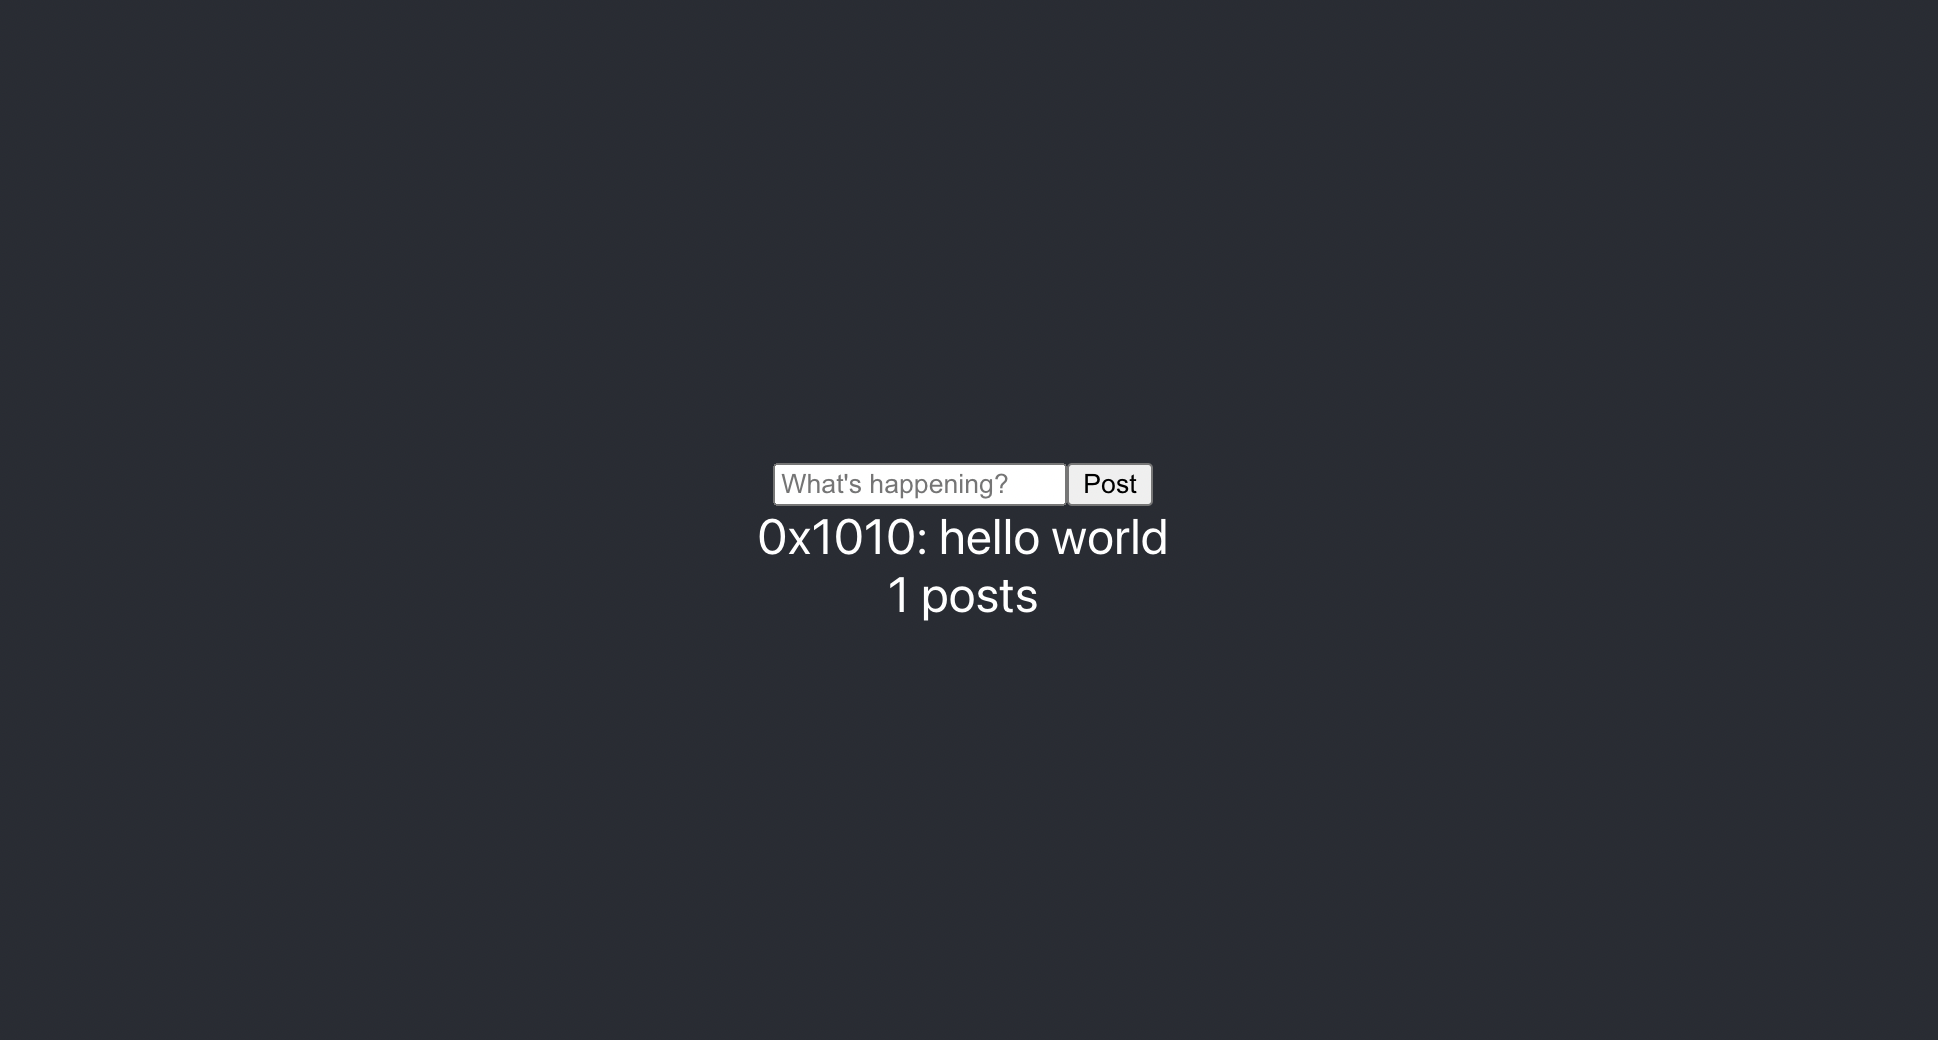
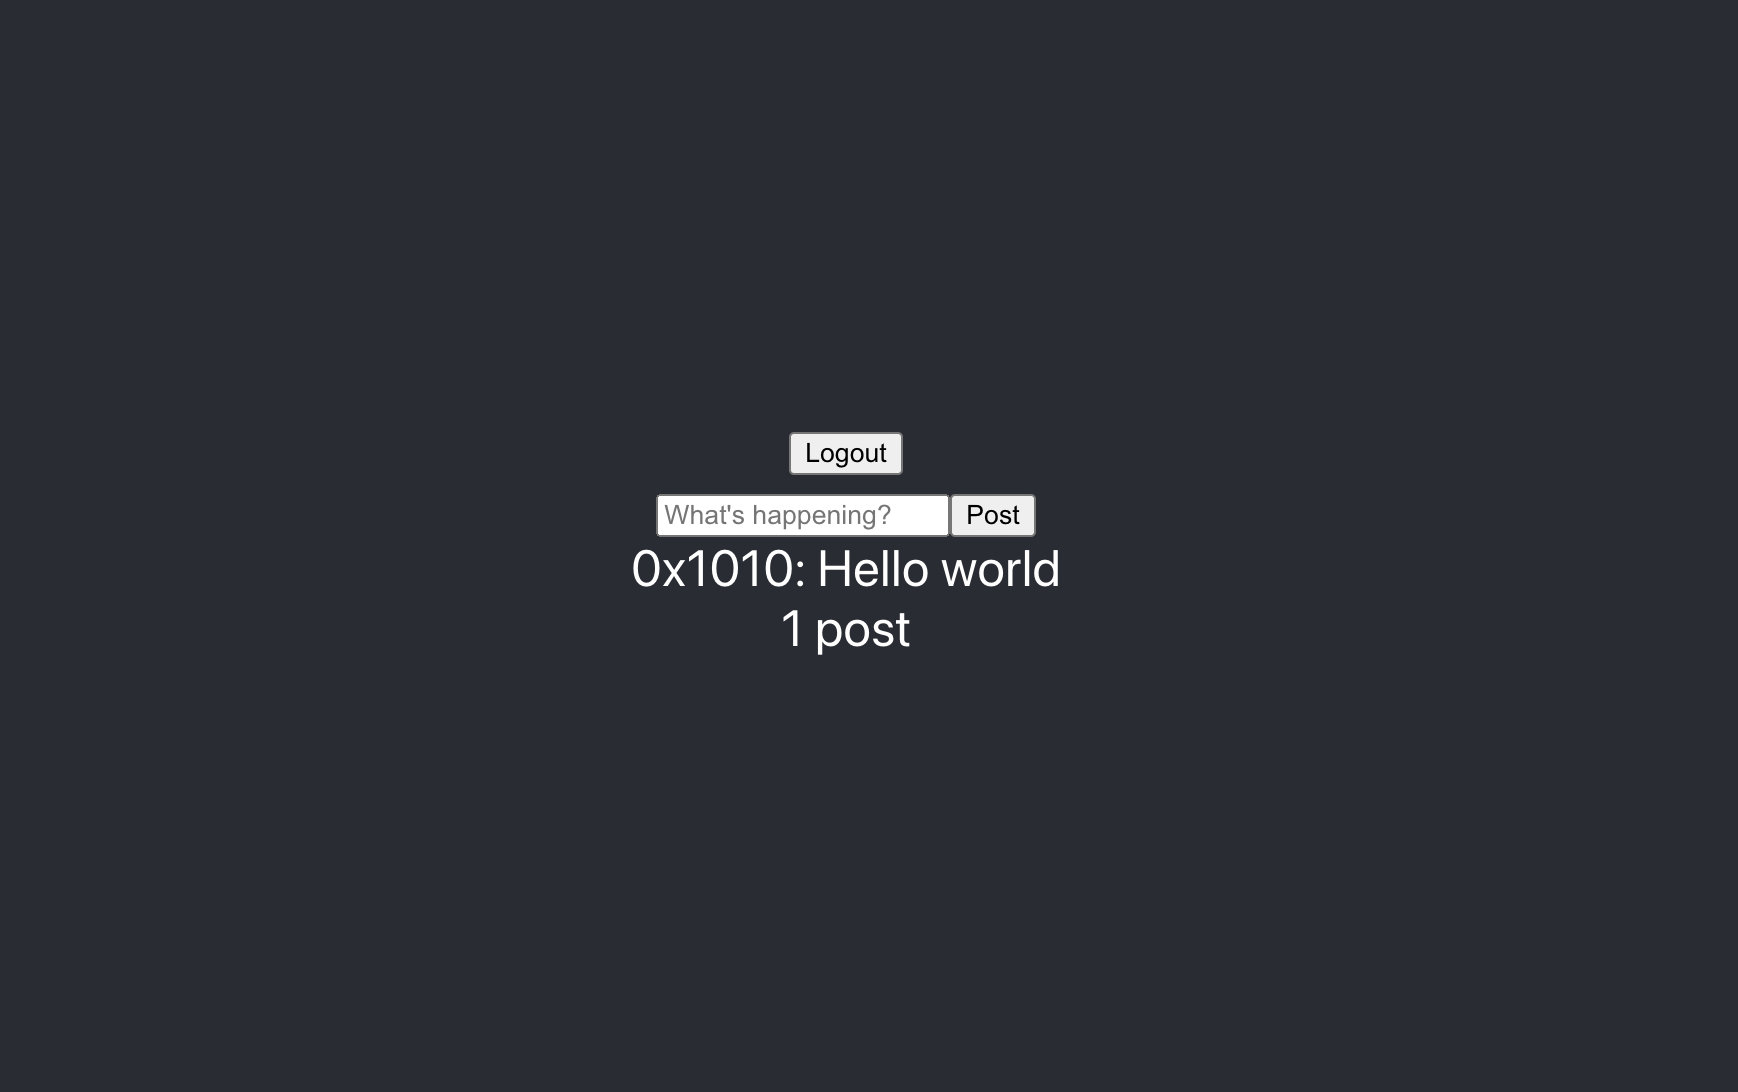
add login to canvas frontend tutorial

Changed region(s): [[0.3728, 0.3692, 0.6214, 0.6154]]

diff --git a/docs/tutorial/writing-a-canvas-frontend.md b/docs/tutorial/writing-a-canvas-frontend.md
@@ -87,19 +87,20 @@ Save and refresh, and you should see some text on the screen:
 
 ![Screenshot of app with text that says "0 posts"](/img/react-starter-1.png)
 
-### Accepting user interactions
+### Connecting a wallet and posting
 
-In Canvas, users have to sign each of their actions, to allow each peer on the network to independently verify your data.
+To create notes in our app, we'll let the user call `createPost()` from the client. This is simple - they need to be able to call `connect()` to log in, and `dispatch()` to send messages.
 
-To create notes in our app, we'll collect signed `createPost(content)` actions from the user. We’ll do this with a simple input form.
-
-Add this right inside the <header\>:
+We’ll do this with a simple input form. Add this right inside the <header\>:
 
 ```jsx
 // underneath useRoute():
 const inputRef = useRef()
 
 // inside <header>:
+<button	onClick={() => session ? disconnect() : address ? connectNewSession() : connect()}>
+    {session ? "Logout" : "Login"}
+</button>
 <form onSubmit={(e) => {
     e.preventDefault()
     dispatch("createPost", inputRef.current.value)
